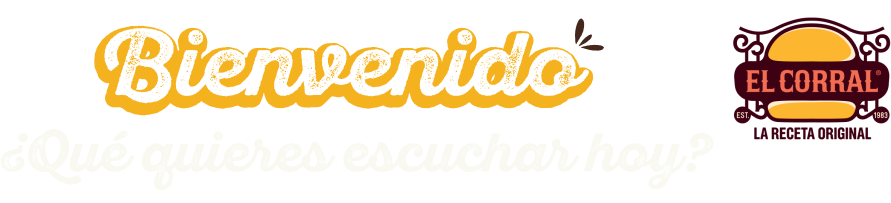
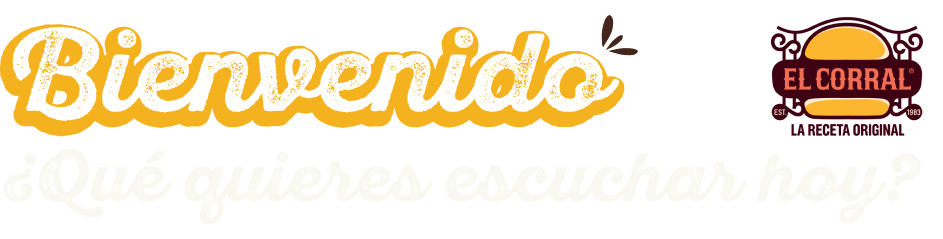
add fix autocomplete bug

Changed region(s): [[0.0, 0.0591, 0.697, 0.5911], [0.8182, 0.0591, 1.0, 0.7094]]

diff --git a/src/app/store/store.component.html b/src/app/store/store.component.html
@@ -1,6 +1,6 @@
 <div class="store-request" *ngIf="dataInfo">
-  <div class="initial-info-content" *ngIf="component === 1">
-    <img src="../../assets/images/welcome.png" alt="Bienvenidos" class="image-store">
+  <div class="initial-info-content" [ngClass]="component === 1 ? 'home' : 'end'">
+    <img height="80" [src]="component === 1 ? '../../assets/images/welcome.png' : '../../assets/images/logo.png'" alt="Bienvenidos" class="image-store">
   </div>
   <div>
     <ng-template *ngIf="component === 1" [ngTemplateOutlet]="reguest"></ng-template>
@@ -12,7 +12,6 @@
       <p class="title">{{ currentSong.title }}</p>
       <p class="author">{{ currentSong.author }}</p>
     </div>
-
     <div>
       <svg xmlns="http://www.w3.org/2000/svg" width="50" viewBox="0 0 129 88" fill="none">
         <path d="M5.78113 31.0981C5.78113 30.3911 5.50034 29.7124 5.00037 29.2124C4.50039 28.7124 3.8223 28.4321 3.11523 28.4321C2.40817 28.4321 1.72995 28.7124 1.22998 29.2124C0.730008 29.7124 0.449219 30.3911 0.449219 31.0981V56.1978C0.449219 56.9048 0.730008 57.5825 1.22998 58.0825C1.72995 58.5825 2.40817 58.8638 3.11523 58.8638C3.8223 58.8638 4.50039 58.5825 5.00037 58.0825C5.50034 57.5825 5.78113 56.9048 5.78113 56.1978V31.0981Z" fill="white"/>

diff --git a/src/app/shared/components/autocomplete/autocomplete.component.ts b/src/app/shared/components/autocomplete/autocomplete.component.ts
@@ -2,12 +2,13 @@ import {Component, EventEmitter, Input, Output} from '@angular/core';
 import {FormsModule, ReactiveFormsModule} from '@angular/forms';
 import {AsyncPipe, CommonModule} from '@angular/common';
 import {MatAutocompleteModule} from '@angular/material/autocomplete';
+import { MatIconModule } from '@angular/material/icon';
 
 @Component({
   selector: 'app-autocomplete',
   standalone: true,
   imports: [
-    CommonModule, FormsModule, MatAutocompleteModule, ReactiveFormsModule, AsyncPipe
+    CommonModule, FormsModule, MatAutocompleteModule, ReactiveFormsModule, AsyncPipe, MatIconModule,
   ],
   templateUrl: './autocomplete.component.html',
   styleUrl: './autocomplete.component.scss'

diff --git a/src/app/shared/components/list-items-search/list-items-search.component.html b/src/app/shared/components/list-items-search/list-items-search.component.html
@@ -9,7 +9,7 @@ class="first-item"
   <h3 *ngIf="messageText">{{ messageText }}</h3>
 </div>
 <ng-content *ngIf="!messageText"></ng-content>
-<mat-list role="list" class="select-list" [ngClass]="listOptions.length >= 6 ? 'scooll-bar' : ''">
+<mat-list role="list" class="select-list" [ngClass]="listOptions.length >= 4 ? 'scooll-bar' : ''">
   <mat-list-item
   class="list"
   [ngClass]="type"

diff --git a/src/app/store/store.component.scss b/src/app/store/store.component.scss
@@ -22,15 +22,20 @@
     color: #ffffff;
   }
 
-  img {
-    width: 100%;
-    //width: 150px;
+  &.end{
+    text-align: end;
+    margin-right: 12px;
+
+    img {
+      height: 50px;
+    }
   }
 }
 
 .button-action{
-  font-family: "SantEliaRough";
+  //font-family: "SantEliaRough";
   button {
+    font-weight: bold;
     background-color: #FFB100;
   }
 

diff --git a/src/app/shared/components/autocomplete/autocomplete.component.html b/src/app/shared/components/autocomplete/autocomplete.component.html
@@ -8,6 +8,7 @@
     (keyup)="changeInput($event)"
     class="input type-text"
   >
+  <mat-icon fontIcon="search" class="icon-search"></mat-icon>
   </div>
   <div class="spinner-border spinner-border-sm" role="status">
     <span class="visually-hidden"></span>

diff --git a/src/app/shared/components/modals/basic-modal/basic-modal.component.scss b/src/app/shared/components/modals/basic-modal/basic-modal.component.scss
@@ -41,6 +41,7 @@
     background-color: #380514;
     color: #ffffff;
     font-size: 22px;
+    margin: 0 10px;
     border-radius: 3rem;
   }
 }

diff --git a/src/assets/scss/_form/_inputs.scss b/src/assets/scss/_form/_inputs.scss
@@ -1,6 +1,7 @@
 .form-type-text {
   width: 100%;
   display: flex;
+  position: relative;
   .type-text {
     width: 100%;
     padding: 0;

diff --git a/src/app/shared/components/autocomplete/autocomplete.component.scss b/src/app/shared/components/autocomplete/autocomplete.component.scss
@@ -1,0 +1,7 @@
+.icon-search {
+  position: absolute;
+  right: 10px;
+  bottom: 0;
+  top: 12px;
+  color: #450013;
+}
